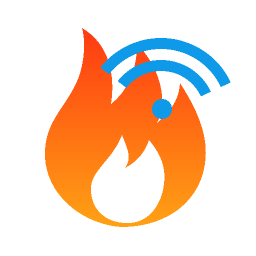
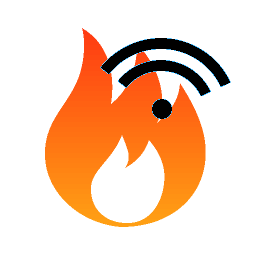
Optimize transparent palette brand PNGs and validate full PNG integrity

Changed region(s): [[0.375, 0.125, 0.9062, 0.375], [0.5938, 0.375, 0.6875, 0.4688]]

diff --git a/tests/test_brand_assets.py b/tests/test_brand_assets.py
@@ -5,6 +5,7 @@ from pathlib import Path
 import json
 import struct
 import unittest
+import zlib
 
 ROOT = Path(__file__).resolve().parents[1]
 PACKAGE = ROOT / "custom_components" / "winnet_stove"
@@ -22,7 +23,29 @@ class BrandAssetsTest(unittest.TestCase):
                 height = struct.unpack(">I", content[20:24])[0]
                 actual_width = struct.unpack(">I", content[16:20])[0]
                 self.assertEqual((actual_width, height), (width, width))
-                self.assertEqual(content[25], 6, "Expected RGBA PNG with alpha")
+                # Color type 3 uses an indexed palette with alpha (tRNS).
+                self.assertEqual(content[25], 3, "Expected optimized palette PNG")
+                offset = len(PNG_SIGNATURE)
+                payload = []
+                has_transparency = False
+                while offset < len(content):
+                    length = struct.unpack(">I", content[offset:offset + 4])[0]
+                    kind = content[offset + 4:offset + 8]
+                    data = content[offset + 8:offset + 8 + length]
+                    expected_crc = struct.unpack(">I",
+                        content[offset + 8 + length:offset + 12 + length])[0]
+                    self.assertEqual(zlib.crc32(kind + data), expected_crc)
+                    if kind == b"IDAT":
+                        payload.append(data)
+                    if kind == b"tRNS":
+                        has_transparency = data[0] == 0 and any(a > 0 for a in data)
+                    offset += length + 12
+                    if kind == b"IEND":
+                        break
+                self.assertTrue(has_transparency)
+                pixels = zlib.decompress(b"".join(payload))
+                self.assertEqual(len(pixels), width * (width + 1))
+                self.assertTrue(any(pixels), "Icon must not be empty")
 
     def test_release_version_is_synchronized(self):
         manifest = json.loads((PACKAGE / "manifest.json").read_text())
